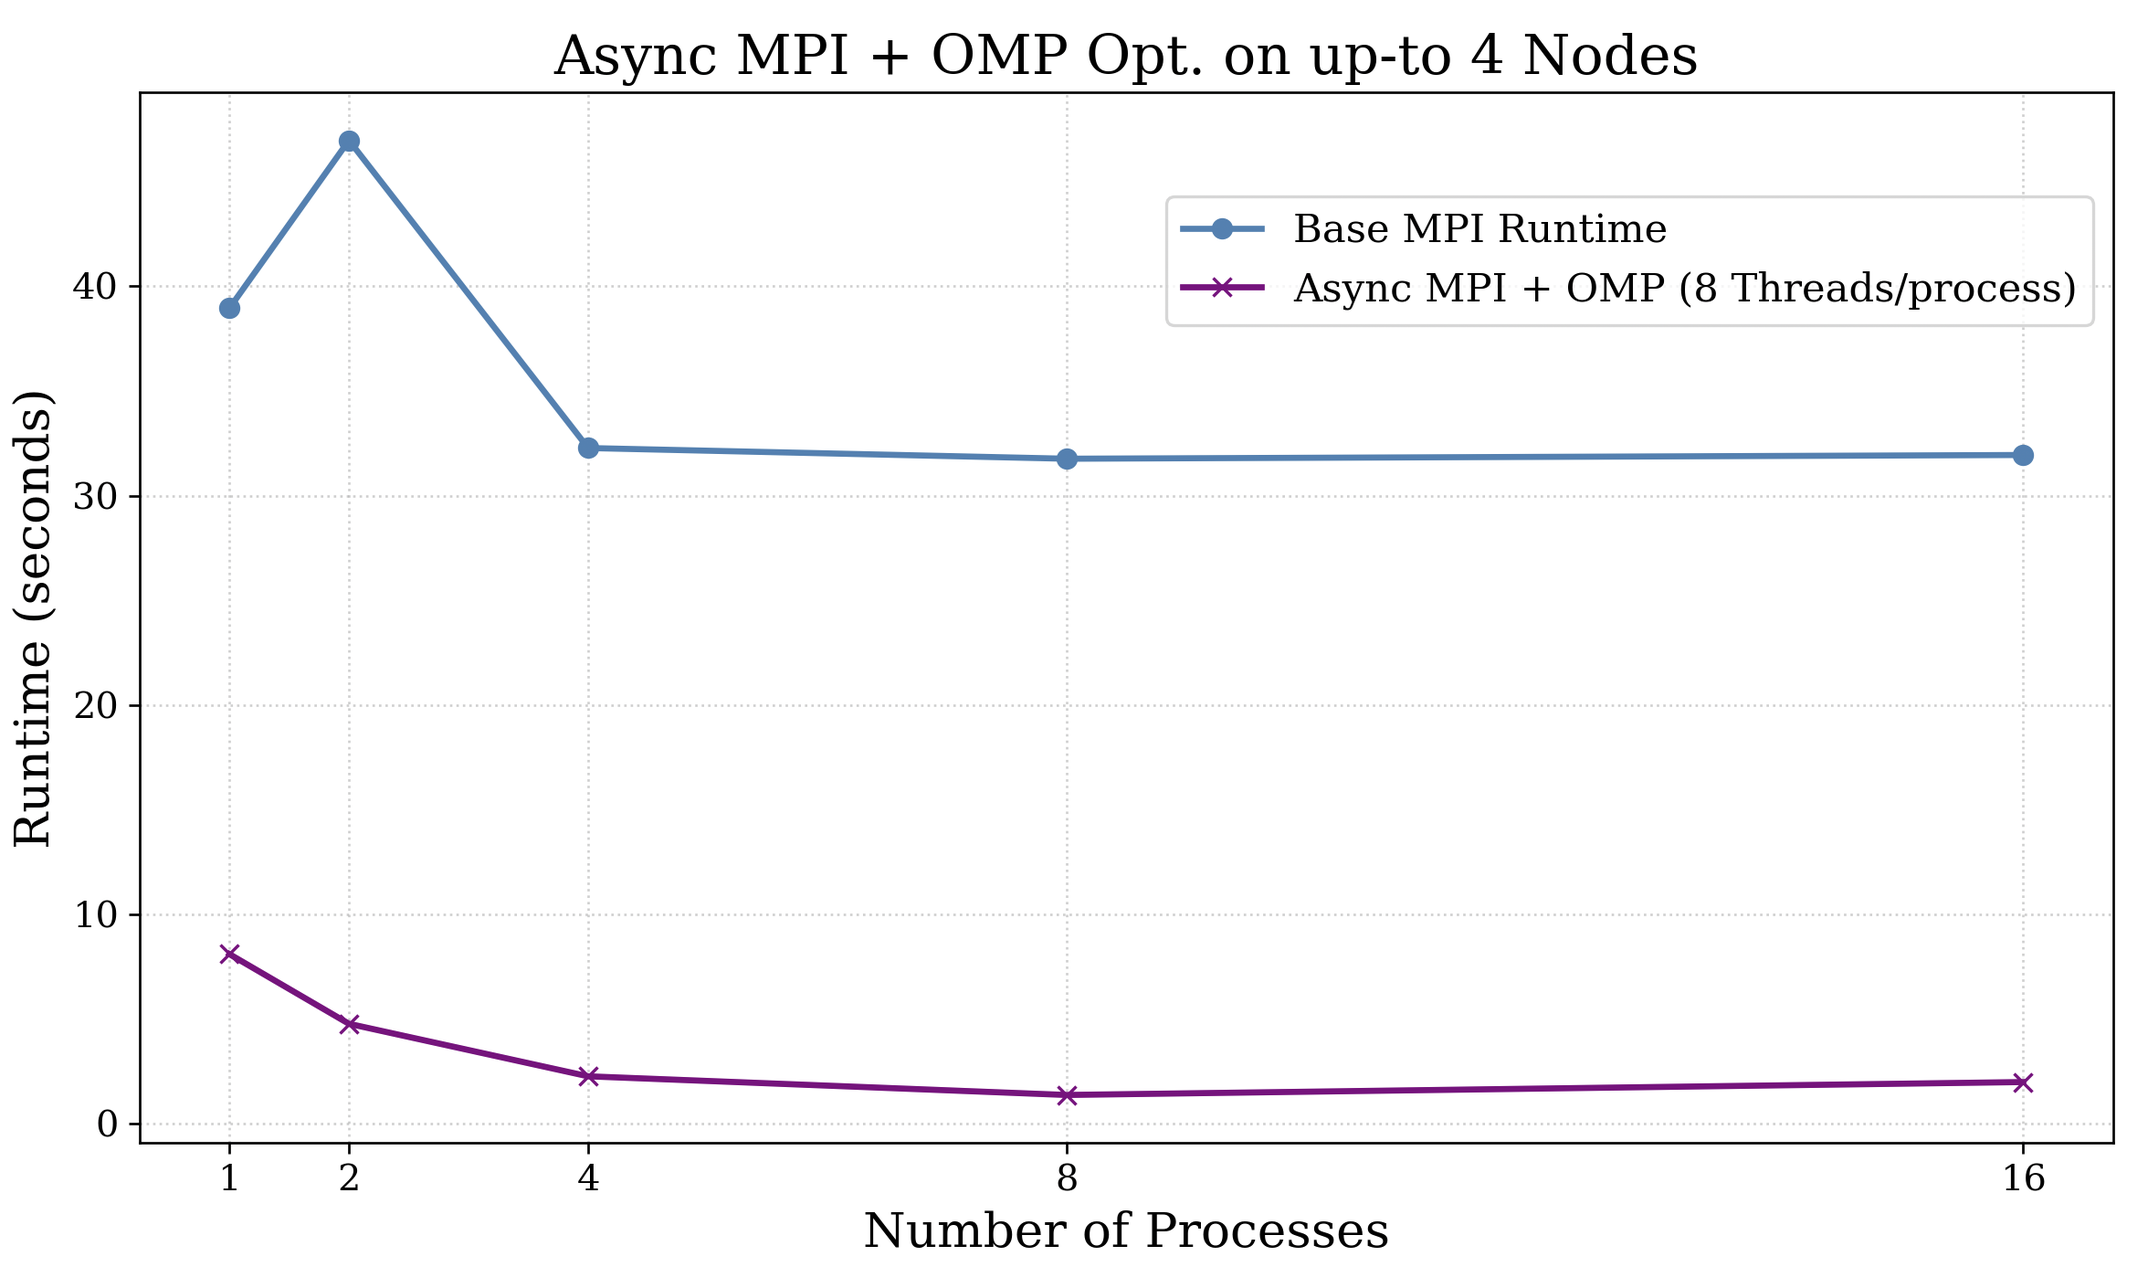
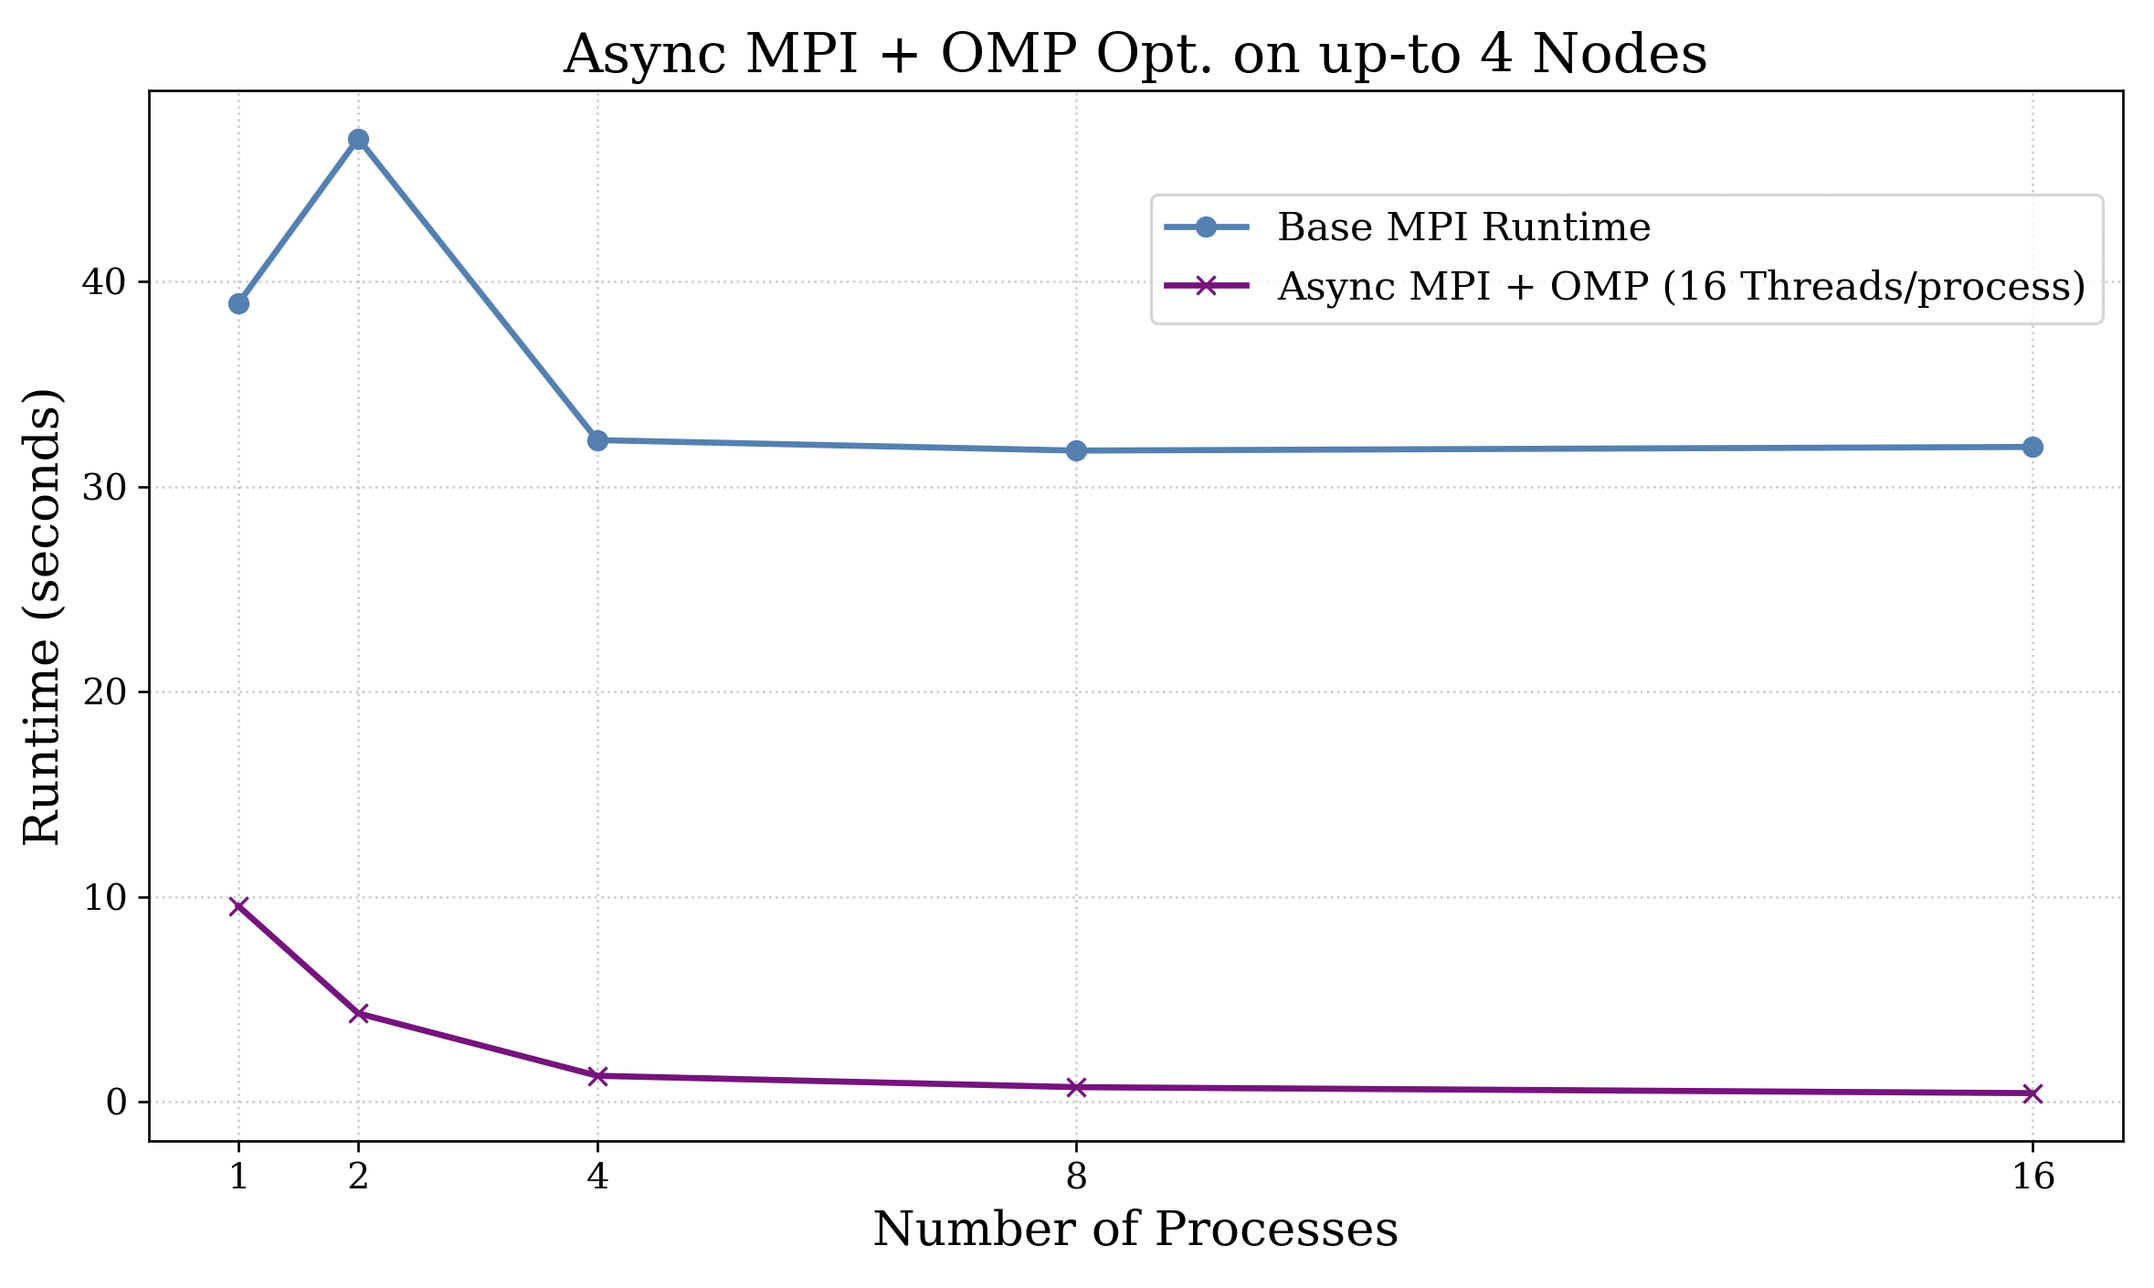
feat(proj): better async+omp runtimes along with report for all mpi stuff (only async + omp mpi remaining)

diff --git a/5_project/report/project.tex b/5_project/report/project.tex
@@ -206,8 +206,11 @@ The code for our project can be found at this location: \url{https://github.com/
 \section{OpenMP GPU Hand-off}
 
 \section{Parallelism through MPI}
+\label{sec:3_mpi}
+The code for this section is present in the \verb|3_mpi| directory. The \verb|dardel_runtimes| subdirectory contains the runtimes plotted in the graphs below, which were averages across 3 runs. Additionally, the \verb|outputs/| directory contains the snapshots of \verb|E| and \verb|H| at different time-steps for the serial and parallel implementation(s), which were used to verify correctness using the \verb|verify_outputs.sh| script.
+
 \subsection{Implementation Description}
-The code for this section is present in the \verb|3_mpi| directory. To parallelize the serial code with the use of MPI, we first initialize the global \verb|E| and \verb|H| grids with the process with rank 0. This is followed by a scattering of this global grid to all processes in the method present \href{https://github.com/paulmyr/DD2356-MethodsHPC/blob/master/5_project/3_mpi/fdtd_mpi.c#L25}{here} in the \verb|fdtd_mpi.c| file. This scattering occurs over a 1D cartesian communicator, which is first created with the help tof \verb|MPI_Cart_create|. 
+To parallelize the serial code with the use of MPI, we first initialize the global \verb|E| and \verb|H| grids with the process with rank 0. This is followed by a scattering of this global grid to all processes in the method present \href{https://github.com/paulmyr/DD2356-MethodsHPC/blob/master/5_project/3_mpi/fdtd_mpi.c#L25}{here} in the \verb|fdtd_mpi.c| file. This scattering occurs over a 1D cartesian communicator, which is first created with the help tof \verb|MPI_Cart_create|. 
 
 After this, the following three steps are performed at each step of the update-loop:
 \begin{itemize}
@@ -220,8 +223,9 @@ After this, the following three steps are performed at each step of the update-l
 Note that here, all halo-cell exchanges are performed through \underline{blocking, synchronous} communication. Finally, once the computation loop is complete, we add a barrier to ensure that all processes agree to completing all steps of the computation before proceeding. After this barrier, we gather the results of the local \verb|E| and \verb|H| arrays from each process in to a global \verb|E| and \verb|H| grid (respectively) at the rank 0 process in \href{https://github.com/paulmyr/DD2356-MethodsHPC/blob/master/5_project/3_mpi/fdtd_mpi.c#L108}{this} function. This can then be printed to file for diagnostic purposes if needed. The full-code for our implmenetation briefly described above can be found in the \verb|fdtd_mpi.c| file \href{https://github.com/paulmyr/DD2356-MethodsHPC/blob/master/5_project/3_mpi/fdtd_mpi.c}{here}.
 
 \subsection{Strong and Weak Scaling + Communication Overhead}
+\label{sec:3_mpi_analysis}
 
-\begin{figure}
+\begin{figure}[H]
      \centering
      \begin{subfigure}[b]{0.45\textwidth}
          \centering
@@ -240,7 +244,7 @@ Note that here, all halo-cell exchanges are performed through \underline{blockin
      \label{fig:3_mpi_strong_weak}
 \end{figure}
 
-The strong and weak scaling plot for the implementation can be found in Figure \ref{fig:3_mpi_strong_weak}. The configurations used to generate these runtimes can be found in the \verb|run_strong_scaling.sh| and \verb|run_weak_scaling.sh| files. The outputs plotted are the average runtimes over 3 runs. The raw runtimes can be found in the \verb|dardel_runtimes| directory of the repository. 
+The strong and weak scaling plot for the implementation can be found in Figure \ref{fig:3_mpi_strong_weak}. The configurations used to generate these runtimes can be found in the \verb|run_strong_scaling.sh| and \verb|run_weak_scaling.sh| files.
 
 From Figure \ref{fig:3_mpi_strong_scaling}, we see worse runtimes for 1 or 2 processes, which could be attributed to the freater MPI overhead compared to the benefits of the limited parallelism through 1 or 2 processes. As the number of processes increase, the runtimes are marginally better -- achieving their lowest at 4 processes and then increasing till they get slightly worse at 64 processes. This trend indicates that the benefits of parallelism start to diminish as the number of processes increase, likely because of greater MPI overhead (halo-exchange, barrier at the end of the compute-loop, etc). Thus, a balance is struck at 4 processes between MPI overhead and parallelism which is optimal. However, there isn't a big variation in the runtimes at $\geq$ 4 processes. Thus, it could be the case that a different run could give better runtimes at 8 processes instead of 4. However, the sharp decline in runtime from 2 to 4 processes shows the promise of MPI parallelism if we use 4-8 processes. 
 
@@ -258,10 +262,64 @@ In addition to these tests, we profiled this MPI implementation with ScoreP to g
 We notice a considerably large amount of time being spent in the \verb|MPI| portion of code at a staggering $98.4\%$ of the total time and an incredibly high \verb|time/visit|. The MPI calls done in the compute-loop we are interested in are the blocking \verb|Sendrecv| communication calls for halo-exchanges. Thus, this indicates that because of its blocking nature, each \verb|Sendrecv| call is costing a significant amount of time, bumping up the communication overhead and thus the runtime (total time and time per visit) for the MPI section. In comparison, the \verb|USR| section has a similar number of visits but a drastically lower time spent per visit. This might also explain why we did not see a significant improvement in runtime compared to the serial version as the number of processes increase -- any benefit gained from parallelism was likely countered by the overhead of blocking communication between more processes. Thus, performing halo exchanges in a non-blocking manner could lead to some improvements, which is what guided our optimization strategy in the next section.
 
 \section{Optimizing MPI Parallelism}
-
-\subsection{Some ScoreP Profiling}
+For optimization of the parallel implementations, we focus on the parallel MPI implementation in Section \ref{sec:3_mpi}. The OpenMP implementations were incredibly fast compared to the serial counterparts already, and we felt we could improve MPI a lot more. The files referred to in this section can be found under the \verb|4_opt| directory of the repository. The \verb|dardel_runtimes/| and the \verb|outputs/| directory serve the same purpose as in Section \ref{sec:3_mpi}.
 
 \subsection{Attempt 1: Communication-Computation Overlap w/ Non-Blocking Halo Exchange}
+From the ScoreP analysis of the MPI code in Section \ref{sec:3_mpi_analysis}, we concluded that the blocking \verb|Sendrecv| halo-exchanges are likely contributing to the lackluster performance. To rectify this issue, we decided to implement halo-exchanges through non-blocking mechanisms: with the help of \verb|Irecv| and \verb|Isend|. This allowed us to overlap communiation (through halo-exchanges) with computation: since the \textit{interior} portion of each chunk can be computed without the need of data from halo-exchanges.
+
+Thus, we initiate  \verb|Irecv| and \verb|Isend| requests for a halo-exchange, then compute the updated values for the interior of each chunk. After this computation, we \textit{wait} on these 2 halo-exchange requests to complete, after which we compute the boundary cell(s). We repeat this method for updating both the \verb|E| and the \verb|H| grids. The code for this can be found in the \verb|fdtd_async_opt.c|. We will refer to this as the \underline{Async/Non-Blocking Optimization (Opt 1)} of the MPI code from Section \ref{sec:3_mpi}, while the code from Section \ref{sec:3_mpi} will be referred to as the \underline{Base MPI} implementation.
+
+Figure \ref{fig:4_opt1} shows the performance of this optimization compared to the blocking/base MPI implementation from Section \ref{sec:3_mpi}. We vary the number of processes keeping the problem size constant (6.4 million elements, 1k iterations). The script for obtaining these runtimes can be found in the \verb|run_async_opt.sh| file \href{https://github.com/paulmyr/DD2356-MethodsHPC/blob/master/5_project/4_opt/run_async_opt.sh}{here}. From Figure \ref{fig:4_opt1}, we can see that till 8 processes, the async MPI imeplementation performs visibly better than the synchronous version. We believe that the reason for this is the communication-computation overlap to update the interior of the grids makes more efficient use of the idle time that was otherwise wasted in the synchronous halo-exchange.
+
+However, the performance from 16 processes onwards is quite similar, where any differences between the two runs could likely be attributed to being within a margin of error from each other. Thus, this shows that with an increase in the number of processes, the cost of synchronizing the MPI communication between different/adjacent workers adds up -- negating the potential benefits of the asynchronous exchange. Additonally, as the number of processes increase but the problem size remains the same, we have more processes responsible for smaller chunks of the global arrays. This means that the \textit{computation} part of the computation-communication overlap is smaller, and thus the processes are more likely to end up waiting for a longer time at the \verb|MPI_Waitall| call after the interior-computation is finished. This would give us similar behaviour to the sync MPI implementation, which is what we observed.
+
+
+\begin{figure}[H]
+     \centering
+     \begin{subfigure}[b]{0.45\textwidth}
+         \centering
+         \includegraphics[width=\textwidth]{../images/4_opt/opt1.png}
+         \caption{Varying Processes (Same Input)}
+         \label{fig:4_opt1}
+     \end{subfigure}
+     \hfill
+     \begin{subfigure}[b]{0.45\textwidth}
+         \centering
+         \includegraphics[width=\textwidth]{../images/4_opt/opt_compare_8.png}
+         \caption{Varying Input (8 Processes)}
+         \label{fig:4_opt_compare_8}
+     \end{subfigure}
+     \caption{Sync (Base) MPI vs Async MPI}
+     \label{fig:4_opt_async_runtimes}
+\end{figure}
+
+Based on the results from Figure \ref{fig:4_opt1}, we concluded that 8 processes seems to offer the best balance between async MPI communication and parallelism, and wanted to explore this further. This was done in Figure \ref{fig:4_opt_compare_8}, where we analyzed the runtimes across different grid sizes for the 2 implementations, both using 8 processes. The SLURM script for this can be found in the \verb|run_mpi_async_opt_compare.sh| file \href{https://github.com/paulmyr/DD2356-MethodsHPC/blob/master/5_project/4_opt/run_mpi_async_opt_compare.sh}{here}. For smaller grid sizes, the two implementations seem to perform similarly, with the Base MPI even having a slight edge likely because of the simpler structure of the code and fewer calls to the MPI library making the async communication an unnecessary excess. Another reason might be the smaller \textit{computation} portion because of smaller grid-sizes, as explained earlier.
+
+
+However, as the grid sizes increase, we start seeing the noticable benefit of using async over sync communication for halo-exchanges. As the grid sizes increase, so does the "computation" part of the overlap -- meaning there is a non-trivial amount of wait-time which allows for the \verb|MPI_Waitall| to finish quickly and bring forth the anticipated advantage.
+\textit{Note: While the runtimes plotted in Figure \ref{fig:4_opt_compare_8} are averages across 3 runs, we did observe considerable differences between these runs for both the Base MPI and the Async MPI implementations. We believed this might be because of unexpected allocation of processes to CPUs on the Numa nodes by SLURM (making for variable communication time), and thus requested more processes on the same node to get better allocation. Despite this, we did observe some non-trivial variation between runs on the same invocation. However, the trend we observed seemed to largely follow the one presented here.}
+
+
+We also profiled using ScoreP the Base MPI and the Async MPI imeplementation using 8 processes (6.4 million elements, 1k iterations). Figure \ref{fig:4_opt_scorep_sync} and Figure \ref{fig:4_opt_scorep_async} show the result of the analysis for the Sync and Async implementations with this configuration, respectively.  
+\begin{figure}[H]
+     \centering
+     \begin{subfigure}[b]{0.45\textwidth}
+         \centering
+         \includegraphics[width=\textwidth]{../images/4_opt/scorep_8_mpi.png}
+         \caption{Synchronous (Base) MPI ScoreP}
+         \label{fig:4_opt_scorep_sync}
+     \end{subfigure}
+     \hfill
+     \begin{subfigure}[b]{0.45\textwidth}
+         \centering
+         \includegraphics[width=\textwidth]{../images/4_opt/scorep_8_async.png}
+         \caption{Async (Optimized) MPI ScoreP}
+         \label{fig:4_opt_scorep_async}
+     \end{subfigure}
+     \caption{Sync (Base) MPI vs Async MPI ScoreP}
+\end{figure}
+
+Despite a greater percentage of time being spent in the MPI section for the Async implementation and a higher number of visits to MPI, we notice that the time per call for MPI is significantly lower compared to that for the Sync Implementation. We believe that this is because of the fewer amount of waiting time required near blocking calls (such as \verb|MPI_Waitall|), since the relatively larger computation portion gives enough time for the halo-exchanges to have finished by the time we reach the blocking portion of the code. This is also evident in the total time (for \verb|ALL|) spent in the simulation -- where we see a nearly 30 second decrease in the Async version compared to the Sync version. While the actual running times are likely much higher for both implementations here because of hte ScoreP profiling intervention, a 30 second difference is considerably large, which would likely translate to a noticeable difference \textit{without} ScoreP as well -- as was observed in the plots in Figure \ref{fig:4_opt_async_runtimes}.
 
 \subsection{Attempt 2: OpenMP Parallelism w/ Non-Blocking Halo Exchange}
 

diff --git a/5_project/final_big_plotting.py b/5_project/final_big_plotting.py
@@ -28,7 +28,6 @@ gpu_runtimes = {
     6_400_000: [21.204373, 20.643135, 20.640450]  
 }
 
-# blocking mpi implementation runtime (4 processes since that was the best time we got)
 # TODO: CHANGE THIS, THIS IS FOR ONLY 8 PROCESSES ATM AS A STAND-IN
 mpi_runtime = {
     640: [19.440205, 12.955923, 14.383932],
@@ -47,13 +46,13 @@ async_mpi_runtime = {
     6_400_000: [15.195069, 23.422439, 17.351784]
 }
 
-# Runtime of async MPI (8 processes) + OpenMP (8 threads) across 4 nodes
+# Runtime of async MPI (16 processes) + OpenMP (16 threads) across 4 nodes
 async_omp_mpi_runtime = {
-    640: [0.051290, 0.045759, 0.053154],
-    6400: [0.054061, 0.052951, 0.058736],
-    64_000: [0.067034, 0.074884, 0.080780],
-    640_000: [0.199318, 0.194912, 0.206909],
-    6_400_000: [1.521817, 1.506256, 1.497127]
+    640: [0.092310, 0.049394, 0.063659],
+    6400: [0.052928, 0.056507, 0.062249],
+    64_000: [0.072029, 0.064318, 0.060017],
+    640_000: [0.110865, 0.113847, 0.102050],
+    6_400_000: [0.477182, 0.499364, 0.497117]
 }
 
 
@@ -100,7 +99,7 @@ def plot_stuff():
     ax.plot(grid_sizes, serial, marker='o', linestyle='-', linewidth=2, label='Serial')
     ax.plot(grid_sizes, openmp, marker='o', linestyle='-', linewidth=2, label='OpenMP (128 Threads)')
     ax.plot(grid_sizes, gpu, marker='o', linestyle='-', linewidth=2, label='OpenMP GPU Hand-off')
-    ax.plot(grid_sizes, mpi, marker='o', linestyle='-', linewidth=2, label='MPI (4 Processes)')
+    ax.plot(grid_sizes, mpi, marker='o', linestyle='-', linewidth=2, label='MPI (8 Processes)')
     ax.plot(grid_sizes, async_mpi, marker='o', linestyle='-', linewidth=2, label='Async MPI (Opt 1)')
     ax.plot(grid_sizes, async_omp_mpi, marker='o', linestyle='-', linewidth=2, label='Async MPI + OMP (Opt 2)')
 

diff --git a/5_project/4_opt/plotting.py b/5_project/4_opt/plotting.py
@@ -28,11 +28,11 @@ serial_runtime = np.mean([32.308677, 32.251042, 32.508082])
 
 # Async + OMP Runtimes
 async_omp_runtimes = {
-    1: [8.097727, 8.091827, 8.090564],
-    2: [4.704039, 4.899853, 4.683437],
-    4: [2.247665, 2.262453, 2.249726],
-    8: [1.069484, 1.872519, 1.142267],
-    16: [2.234144, 1.842109, 1.858833],
+    1: [9.573017, 9.550793, 9.520266],
+    2: [4.343386, 4.309312, 4.330842],
+    4: [1.295006, 1.270836, 1.284595],
+    8: [0.723189, 0.728476, 0.733101],
+    16: [0.437616, 0.436713, 0.435032],
 }
 
 
@@ -141,7 +141,7 @@ def base_mpi_vs_async_omp_mpi():
     # TODO: Maybe add plot lines for std deviation/error? 
     ax.plot(process_count, base_mpi_runtimes, marker='o', linestyle='-', linewidth=2,
             color='steelblue', label='Base MPI Runtime')
-    ax.plot(process_count, mean_runtime, marker="x", linestyle="-", linewidth=2, color="purple", label="Async MPI + OMP (8 Threads/process)")
+    ax.plot(process_count, mean_runtime, marker="x", linestyle="-", linewidth=2, color="purple", label="Async MPI + OMP (16 Threads/process)")
 
     ax.set_title(f"Async MPI + OMP Opt. on up-to 4 Nodes")
     ax.set_xlabel("Number of Processes")
@@ -224,11 +224,11 @@ def compare_base_async_only_8_process():
 
 # # Base MPI vs Async MPI
 # base_mpi_vs_async_mpi()
-# # Base MPI vs Async + OMP MPI across 4 Nodes
+# Base MPI vs Async + OMP MPI across 4 Nodes
 # base_mpi_vs_async_omp_mpi()
 # # Plot of Base and both optimizations
-# plot_everything()
+plot_everything()
 # Comparison of Base and Async MPI on different grid sizes
-compare_base_async_only_8_process()
+# compare_base_async_only_8_process()
 
 
